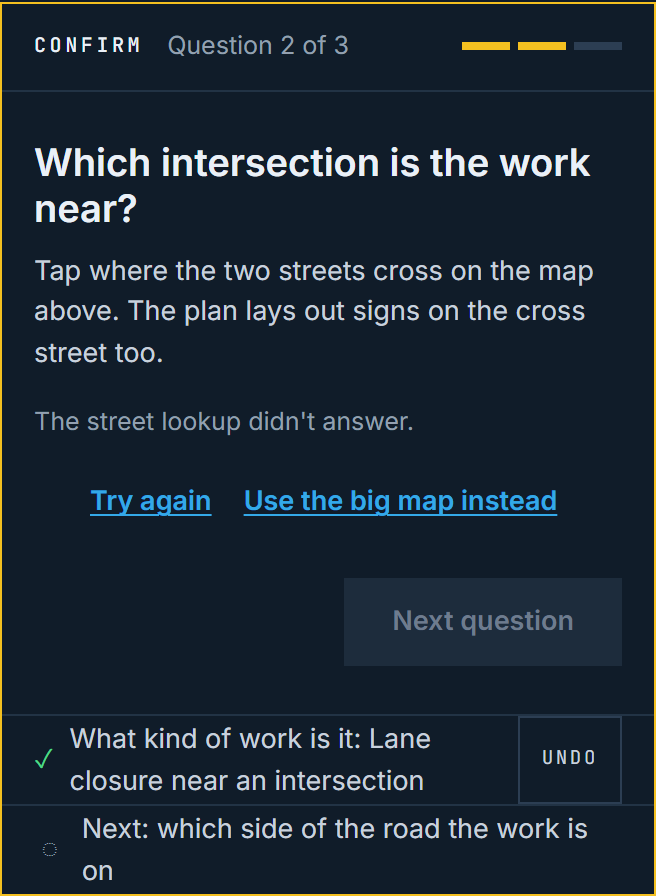
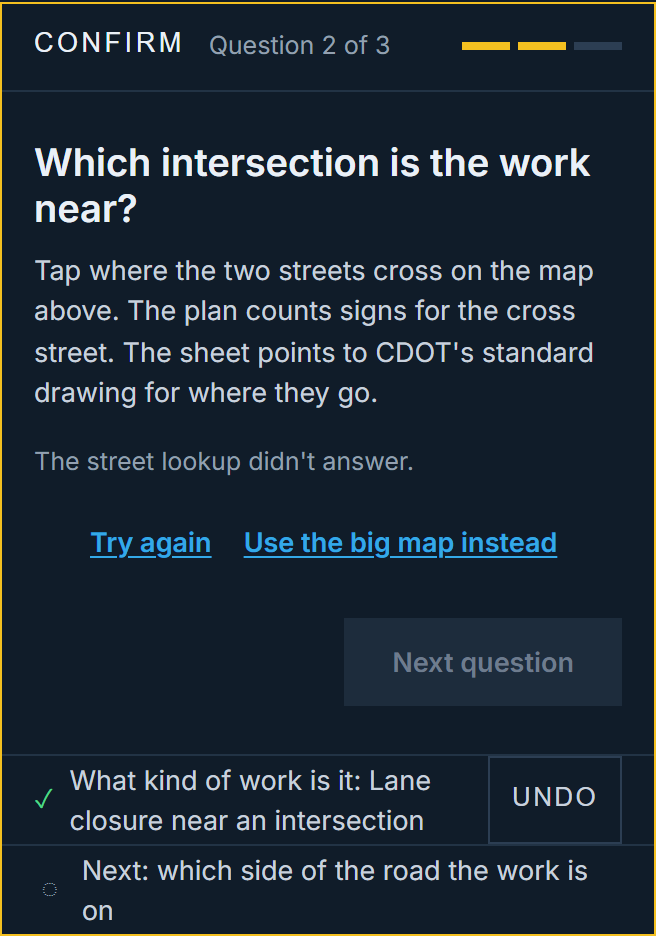
fix(#440): X23 -- the cross-street question says the plan counts the cross street's signs and the sheet points to CDOT's standard drawing for where they go
Ryan (2026-11-04, verbatim in rulings.md): the old line "The plan lays out
signs on the cross street too." conflicts with page 1's "NOT DRAWN" (P2,
Rule 10). The trace answers yes: layout.py:2219-2257 places W20-1, R2-10
and R2-11 per approach. Only page 1's drawing filters to mainline
(plan_sheet.py:4993). Page 1's summary, the device XLSX, the quote and the
crew narrative all count through aggregate_device_rows_with_deltas, pinned
by #372's test. So CROSS_WHY takes Ryan's "yes" line. Checkpoint session-3
Rule 5 amended before the diff. The walk was re-run at 1440/390 and the
armed step re-cropped.

Refs #440

diff --git a/conestruct/site/components/bands/WhereQuestions.tsx b/conestruct/site/components/bands/WhereQuestions.tsx
@@ -41,11 +41,13 @@ export const KIND_QUESTION = "What kind of work is it?";
 export const SIDE_WHY =
   "The plan draws the work on this edge and lays the signs out ahead of the traffic beside it.";
 export const CONFIRM_LABEL = "Confirm and lay out the plan";
-/** #440 ruling 1.  X1: the second sentence holds — the layout lays an
- *  advance warning set on every cross-street leg (layout.py:1953). */
+/** #440 ruling 1.  X23 (Ryan, 2026-11-04; supersedes X1's second
+ *  sentence): page 1 doesn't draw the cross street (#117 Option C,
+ *  plan_sheet.py:4993), but every count does carry its signs (page 1's
+ *  summary, the device XLSX, the quote: #372), so the line says both. */
 export const CROSS_QUESTION = "Which intersection is the work near?";
 export const CROSS_WHY =
-  "Tap where the two streets cross on the map above. The plan lays out signs on the cross street too.";
+  "Tap where the two streets cross on the map above. The plan counts signs for the cross street. The sheet points to CDOT's standard drawing for where they go.";
 /** #440 ruling 6. */
 export const CROSS_FINDING = "Finding the street name…";
 /** #440 X8. */

diff --git a/conestruct/site/components/GeneratorShell.cross-street-tap.test.tsx b/conestruct/site/components/GeneratorShell.cross-street-tap.test.tsx
@@ -287,7 +287,7 @@ describe("#440: the cross-street question on the WHERE band", () => {
     expect(card.textContent).toContain("Question 2 of 3");
     expect(card.textContent).toContain("Which intersection is the work near?");
     expect(card.textContent).toContain(
-      "Tap where the two streets cross on the map above. The plan lays out signs on the cross street too.",
+      "Tap where the two streets cross on the map above. The plan counts signs for the cross street. The sheet points to CDOT's standard drawing for where they go.",
     );
     // Ruling 2 / X20: the side comes after the cross street, so this
     // question's button is Next, and Confirm waits for the side.

diff --git a/validation-artifacts/committed/ux-group4-cross-street/rulings.md b/validation-artifacts/committed/ux-group4-cross-street/rulings.md
@@ -48,3 +48,20 @@ Out of scope (the prompt): the rest of the picker (#301 pieces beyond the cross-
 > Remove the aerial caption "Say which side is occupied to lay out the work" (same kind as ruling 7's removed overlay; the card asks the question).
 
 - **X22, the side caption leaves the aerial (R145 self-ruled on Ryan's instruction above).** `BandAerial` no longer writes `SIDE_BLOCKER` as its note at the pin stage. The aerial shows the pin with no caption, and the CONFIRM card's side question does the asking. Only the aerial loses the sentence: `SIDE_BLOCKER` stays the rail blocker (`lib/scenarios/rail.ts:154`), Generate's `cta-reason`, the move ledger's subline and the picker's sentence. Rule 5, stated: on the side-owed pin picture, `band-aerial-note` goes from that sentence to absent. The wait, failed and refused notes stay as they are. `forced` (used only by the removed line) and the import go with it.
+
+## Ryan's second session-3 instruction (2026-11-04), verbatim, and the call on it
+
+> Before ship: the card line "The plan lays out signs on the cross street too." conflicts with page 1 ("NOT DRAWN") and the "Not checked yet" row (P2, Rule 10). Trace whether cross-street signs reach anything the user gets (device list, counts, quote). If yes: "The plan counts signs for the cross street. The sheet points to CDOT's standard drawing for where they go." If no: "The sheet points to CDOT's standard drawing for the cross street." Record as a call, re-crop that step, push, CI, then the result: line.
+
+- **X23, the cross-street question's second line (supersedes X1's "the second sentence holds").** The trace answers **yes**:
+  - The generator places a W20-1, R2-10 and R2-11 on every cross-street approach, tagged with that approach's `approach_id` (`src/generation/layout.py:2219-2257`).
+  - Only page 1's drawing drops them (`src/rendering/plan_sheet.py:4993` keeps `approach_id == "mainline"`).
+  - Every count reads the unfiltered placements through one function, `aggregate_device_rows_with_deltas` (`src/rules/jurisdiction.py:911`):
+    - page 1's TRAFFIC CONTROL DEVICE SUMMARY (`plan_sheet.py:3529`)
+    - the device XLSX (`src/export/device_list.py:247`)
+    - the quote (`src/export/quote_generator.py:775`, fed by `_run_quote` → `_placements_for`, `src/api/render_api.py:2036`)
+    - the crew narrative (`src/narrative/crew_narrative.py:705`)
+  - #372 pins it: page 1's summary equals the XLSX, and two approaches count more W20-1/R2-10/R2-11 than one (`tests/test_ni_summary_counts_cross_street.py:118-146`).
+  - The session-3 PDF agrees: W20-1, R2-10 and R2-11 at ×4 each on page 1.
+
+  So `CROSS_WHY` (`conestruct/site/components/bands/WhereQuestions.tsx`) reads: "Tap where the two streets cross on the map above. The plan counts signs for the cross street. The sheet points to CDOT's standard drawing for where they go." Rule 5: only that string and its test pin change.

diff --git a/validation-artifacts/committed/ux-group4-cross-street/checkpoint.md b/validation-artifacts/committed/ux-group4-cross-street/checkpoint.md
@@ -86,3 +86,4 @@ Changes (deliberate):
 - **Behaviour change, deliberate (X22):** on the side-owed pin picture, the WHERE aerial's `band-aerial-note` goes from "Say which side is occupied to lay out the work" to absent. The wait, failed and refused notes don't change. `SIDE_BLOCKER` still reads the same on the rail blocker, Generate's `cta-reason`, the move ledger's subline and the picker.
 - **Source:** `components/bands/BandAerial.tsx` (the note line, its now-unused `forced`, and the import go; the header comment follows). **Test that moves:** `components/bands/BandAerial.test.tsx` ("before the side": no note, the sentence absent). **Artifacts:** `evidence/script/walk.mjs` (the stub's chained geometry, the re-tap, the opt-in PDF pass), `evidence/local/` re-run, `evidence/local-pdf/`, `evidence.md`.
 - **Byte-identical:** the backend; every deliverable; the scenario; the CONFIRM card; every other surface that shows `SIDE_BLOCKER`.
+- **X23, predicted before the diff:** the cross-street question's second line changes from "The plan lays out signs on the cross street too." to "The plan counts signs for the cross street. The sheet points to CDOT's standard drawing for where they go." Source: `components/bands/WhereQuestions.tsx` (`CROSS_WHY` and its comment). Test that moves: `GeneratorShell.cross-street-tap.test.tsx` (the pinned string). Artifacts: the walk's crops re-taken. Byte-identical: everything else, the backend and every deliverable included.

diff --git a/validation-artifacts/committed/ux-group4-cross-street/evidence.md b/validation-artifacts/committed/ux-group4-cross-street/evidence.md
@@ -18,6 +18,8 @@ Local `next dev` on the issue-440 worktree (port 3440), with the local backend (
 | axe on the WHERE band at 01/03/07/10 | 0 violations | 0 violations |
 | New controls at least 44 x 44 px | all | all |
 
+**X23 (after the PDF trace):** the cross-street question's second line now reads "The plan counts signs for the cross street. The sheet points to CDOT's standard drawing for where they go." (`walk.json` `01-armed` `card.why` at both widths; crops `*-02-01-armed.png`). The trace behind it is in rulings.md X23: the signs are left off page 1's drawing, but the summary, device XLSX, quote and crew narrative all count them.
+
 Re-cropped this session: `*-05-03-marked.png`, `*-06-aerial-marked.png`, `*-09-10-side.png`, `*-10-11-side-answered.png` (and the rest of the set).
 
 **The stub's geometry (session 3).** The live route extends a candidate's own-way geometry along the road's next ways (`route.ts` `trimChain`). The session-2 stub sent way `1547338997` alone, and that way ends at the work-start snap. So the Franklin tap clamped onto the line's end: it read "at where the work starts" and the plan was declined. The stub now sends the westbound chain the live route would send (`1547338997, 1547338998, 223788857, 600545918, 791808880`). The clamp itself is real when the live extension fails, and it predates #440: filed as #441.
